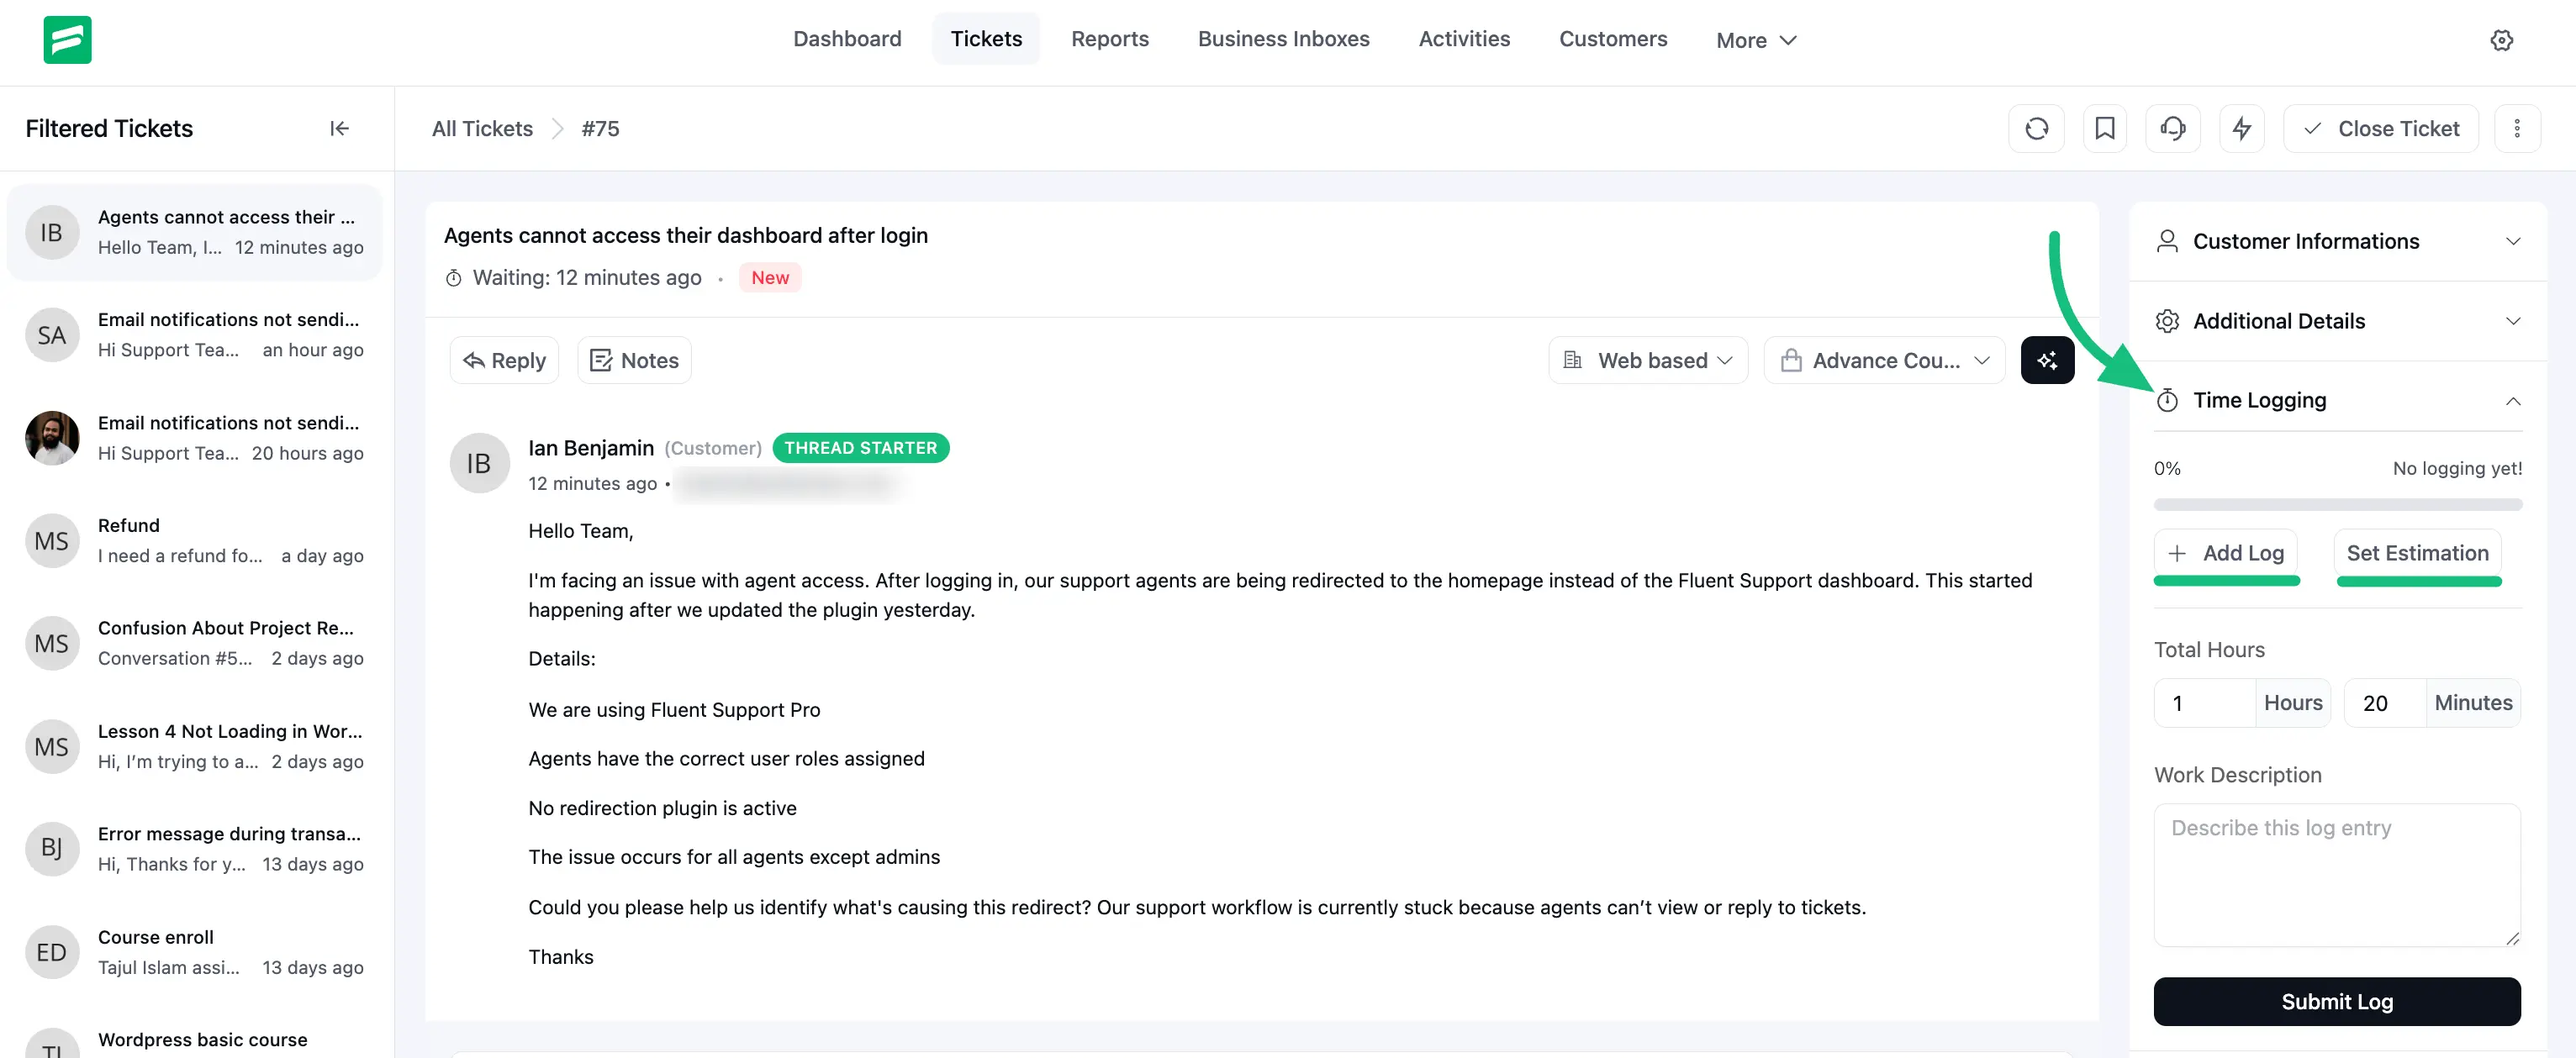
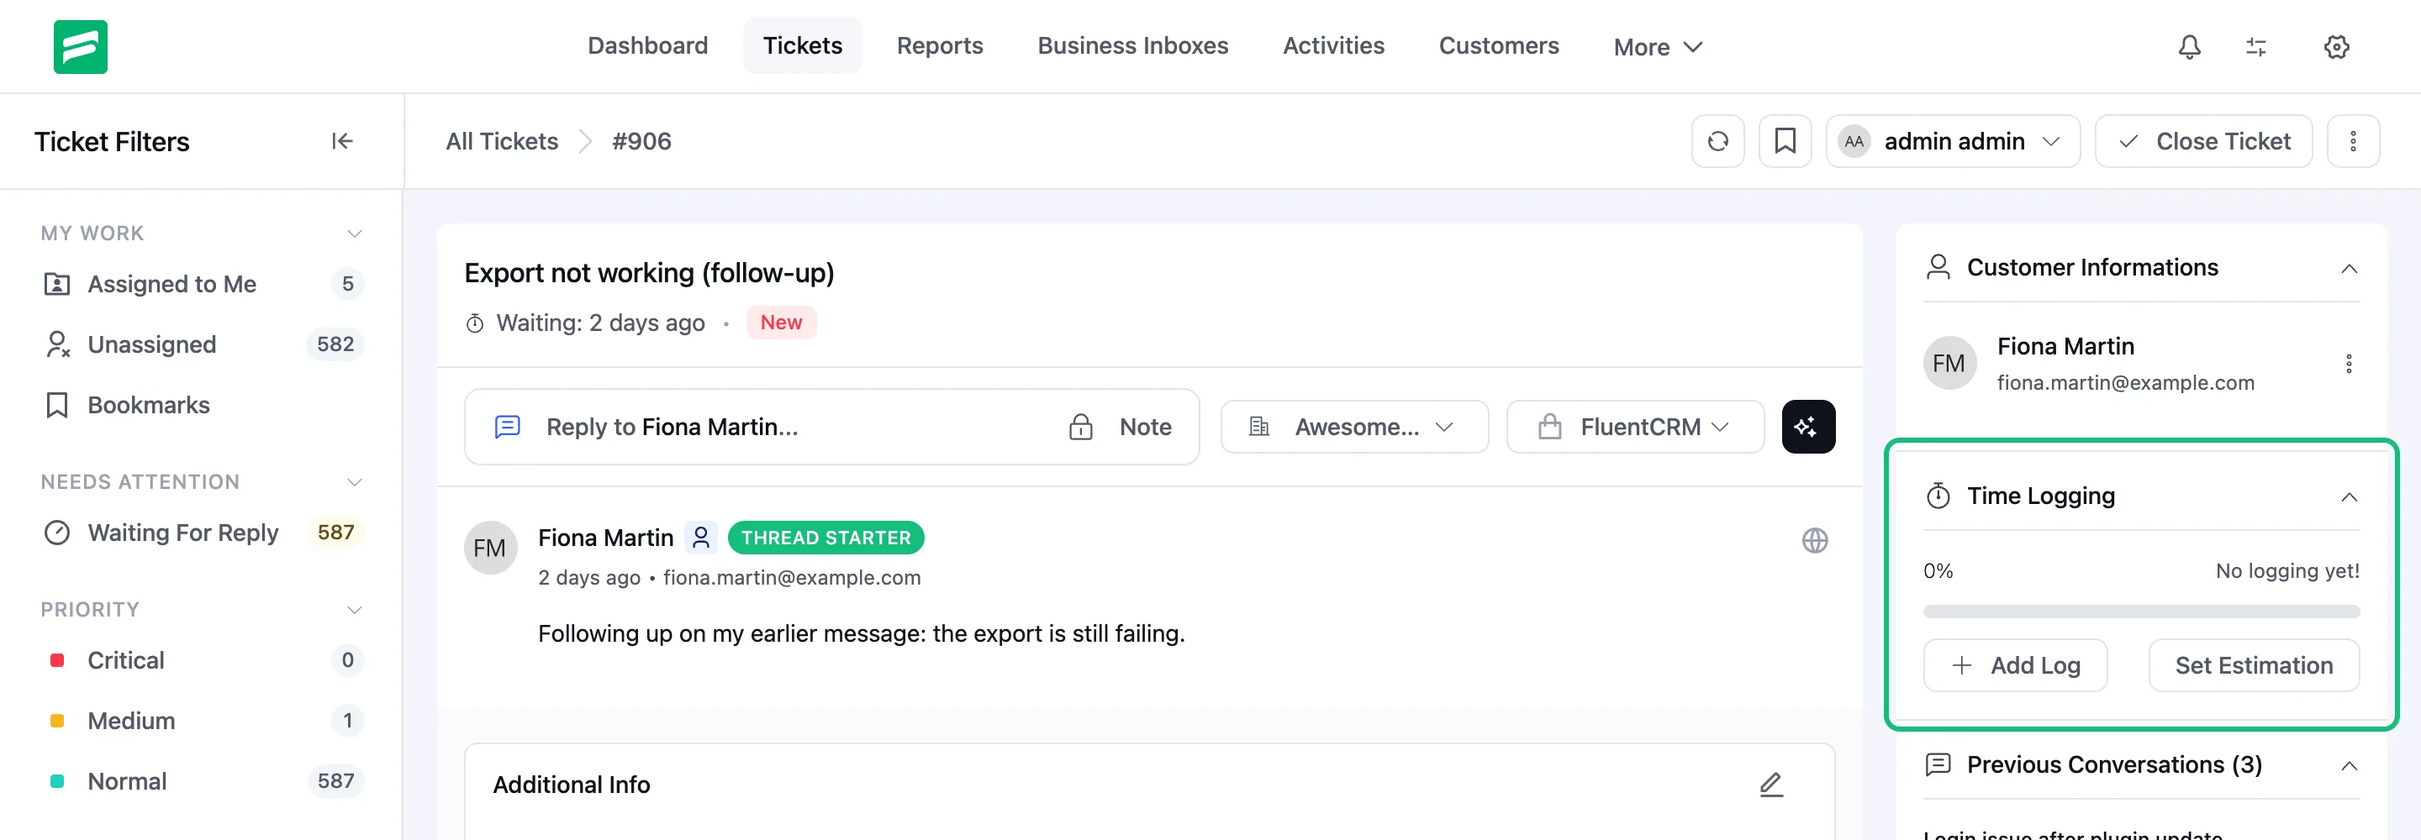
Clarify the time tracking workflow
Update the time tracking screenshots and explain how to expand the Time Logging widget, set an estimate, and add a work log.

diff --git a/docs/ticket-management/agent-time-tracking.md b/docs/ticket-management/agent-time-tracking.md
@@ -10,21 +10,21 @@ Go to FluentSupport’s **Global Settings** and scroll down to the Global Settin
 
 ![Time Tracking Settings](/images/ticket-management/productivity-tools/agent-time-tracking/time-tracking-1.webp)
 
-Go to the specific ticket where you want to use the **Time Tracking**. You’ll see the **Time Logging** option like the below screenshot. Click here to see the time-tracking options.
+Go to the specific ticket where you want to use the **Time Tracking**. You’ll see the **Time Logging** option like the below screenshot. Click here to expand the widget and see the time-tracking options. It shows the logged time as a progress bar, with **Add Log** and **Set Estimation** buttons below it.
 
-![Time Tracking in Ticket](/images/ticket-management/productivity-tools/agent-time-tracking/time-tracking-2.webp)
+![The Time Logging widget in the ticket sidebar with the Add Log and Set Estimation buttons](/images/ticket-management/productivity-tools/agent-time-tracking/time-tracking-2.webp)
 
 **Set Estimation:** Use this option to set the estimated time needed to resolve the ticket. Click the **Set Estimation** button and enter the hours and minutes for the ticket.
 
-![Set Estimation](/images/ticket-management/productivity-tools/agent-time-tracking/time-tracking-3.webp)
+![The Set Estimated Time popup with Hours and Minutes fields](/images/ticket-management/productivity-tools/agent-time-tracking/time-tracking-3.webp)
 
-You’ll also find fields to log your work hours and minutes. You can add a description for this time log by typing it in the provided field.
+Click **Add Log** to open the log form. You’ll find fields to log your work hours and minutes. You can add a description for this time log by typing it in the provided field.
 
 When you’re done, click the **Submit Log** button to save the time to your log.
 
 The Time Tracker also shows Time Progress, giving you a clear view based on the logged time.
 
-![Add Log Time](/images/ticket-management/productivity-tools/agent-time-tracking/time-tracking-4.webp)
+![The Add Log form with hours, minutes and a work description](/images/ticket-management/productivity-tools/agent-time-tracking/time-tracking-4.webp)
 
 ## Time Tracker Report
 
